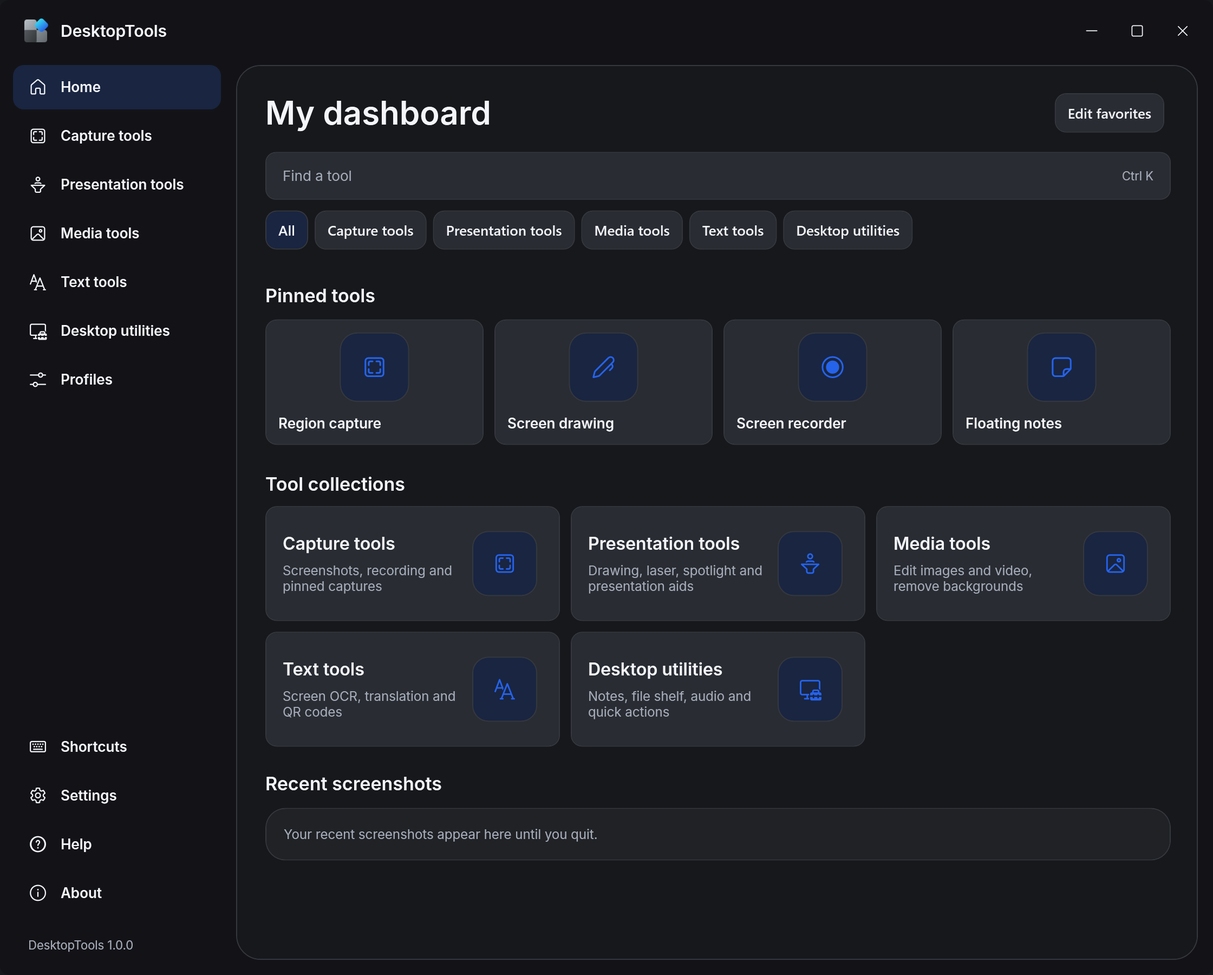
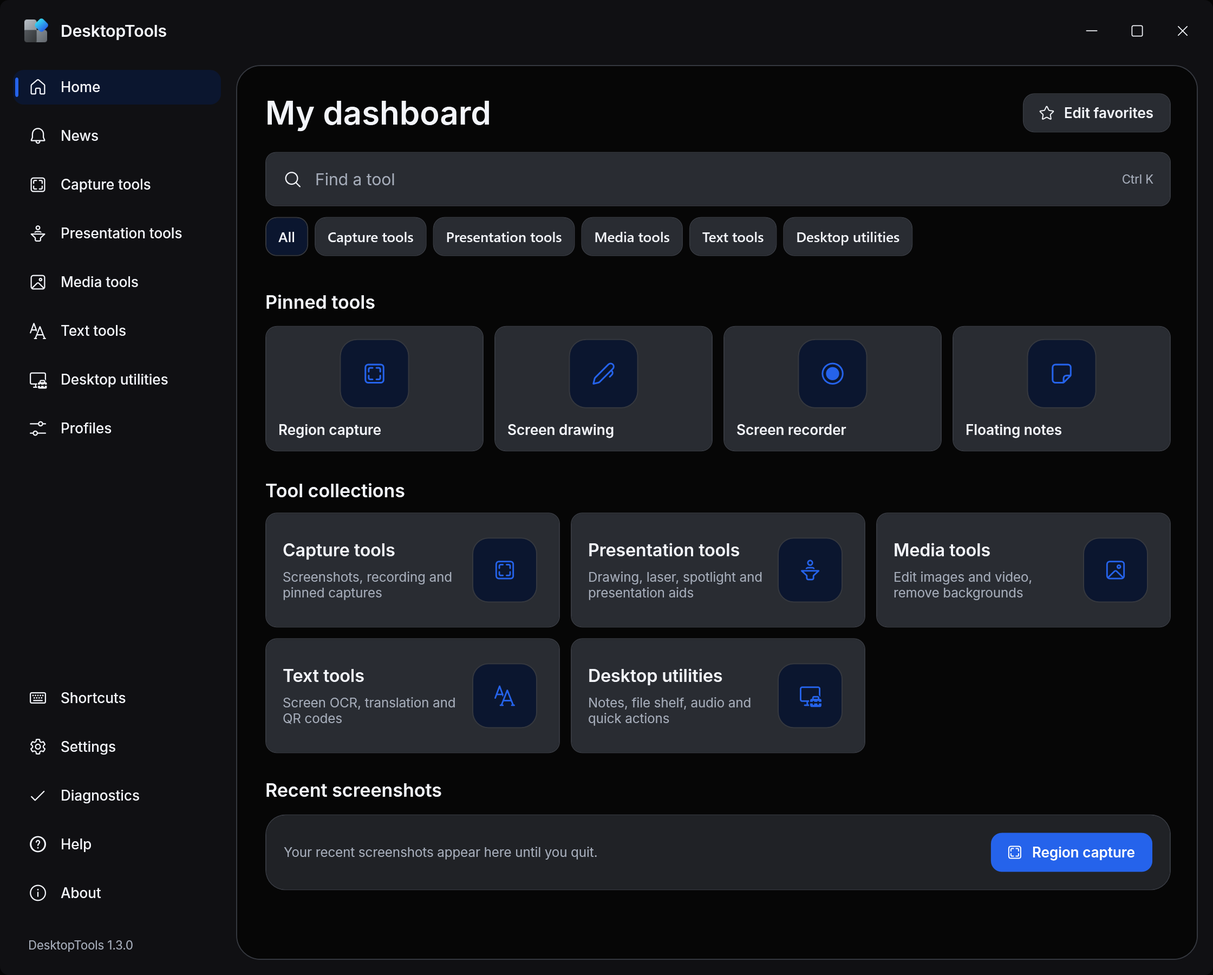
Refresh README text, screenshots and animated hero for the new interface
The READMEs describe Extract text, Clipboard and folder, still-screen recording and the twelve interface languages. The three screenshots and the hero are rendered from the gallery harness; the hero has its own script.

diff --git a/scripts/make-readme-hero.py b/scripts/make-readme-hero.py
@@ -1,0 +1,188 @@
+"""Build the animated README hero (assets/readme/hero.gif) from the published gallery screenshots.
+
+Every picture in it is a render of the real app from docs/screenshots/gallery (run the integration harness with --github-gallery
+first) or is drawn here; no desktop content is captured. Needs Pillow, numpy and ffmpeg on PATH.
+
+Usage: python scripts/make-readme-hero.py [--frames-only DIR]
+"""
+import math, shutil, subprocess, sys, tempfile
+from pathlib import Path
+from PIL import Image, ImageDraw, ImageFilter, ImageFont
+
+ROOT = Path(__file__).resolve().parents[1]
+GALLERY = ROOT / "docs/screenshots/gallery"
+FONTS = ROOT / "src/DesktopTools/Assets/Fonts"
+OUT = ROOT / "assets/readme/hero.gif"
+W, H, S = 800, 400, 2                 # output size and supersampling factor
+FPS, SECONDS = 15, 10.0
+ACCENT = (37, 99, 235)
+
+def font(weight, size): return ImageFont.truetype(str(FONTS / f"Inter-{weight}.otf"), int(size * S))
+def ease(t): t = min(1.0, max(0.0, t)); return 1 - (1 - t) ** 3                      # ease-out cubic
+def smooth(t): t = min(1.0, max(0.0, t)); return t * t * (3 - 2 * t)                  # ease-in-out
+def span(t, start, end): return (t - start) / (end - start)
+def lerp(a, b, t): return a + (b - a) * t
+
+def rounded(image, radius):
+    mask = Image.new("L", image.size, 0)
+    ImageDraw.Draw(mask).rounded_rectangle((0, 0, image.width - 1, image.height - 1), radius=radius, fill=255)
+    out = image.convert("RGBA"); out.putalpha(mask); return out
+
+def backdrop():
+    """Dark canvas with two soft colour glows, drawn once."""
+    base = Image.new("RGB", (W * S, H * S), (13, 15, 22))
+    glow = Image.new("RGB", base.size, (13, 15, 22)); draw = ImageDraw.Draw(glow)
+    draw.ellipse((-200 * S, -260 * S, 420 * S, 260 * S), fill=(24, 44, 110))
+    draw.ellipse((520 * S, 180 * S, 1000 * S, 640 * S), fill=(58, 30, 104))
+    return Image.blend(base, glow.filter(ImageFilter.GaussianBlur(120 * S)), 0.9).convert("RGBA")
+
+def shot(name, width):
+    """A gallery screenshot scaled to `width` output pixels, with rounded corners."""
+    with Image.open(GALLERY / f"{name}.png") as source:
+        image = source.convert("RGB")
+    height = round(image.height * width * S / image.width)
+    return rounded(image.resize((width * S, height), Image.Resampling.LANCZOS), 12 * S)
+
+def shadowed(image, blur=22, alpha=150):
+    pad = blur * 3 * S
+    canvas = Image.new("RGBA", (image.width + pad * 2, image.height + pad * 2), (0, 0, 0, 0))
+    shadow = Image.new("RGBA", image.size, (0, 0, 0, alpha)); shadow.putalpha(image.getchannel("A").point(lambda v: v * alpha // 255))
+    canvas.alpha_composite(shadow, (pad, pad + 10 * S))
+    canvas = canvas.filter(ImageFilter.GaussianBlur(blur * S / 2))
+    canvas.alpha_composite(image, (pad, pad)); return canvas, pad
+
+def place(frame, layer, x, y, opacity=1.0, scale=1.0):
+    """Composite `layer` with its top-left at output coordinates (x, y)."""
+    if opacity <= 0: return
+    if scale != 1.0:
+        layer = layer.resize((max(1, round(layer.width * scale)), max(1, round(layer.height * scale))), Image.Resampling.BILINEAR)
+    if opacity < 1: layer = layer.copy(); layer.putalpha(layer.getchannel("A").point(lambda v: int(v * opacity)))
+    frame.alpha_composite(layer, (round(x * S), round(y * S)))
+
+def pill(text, dot=ACCENT):
+    """Caption chip with a coloured dot."""
+    face = font("SemiBold", 15); width = round(face.getlength(text)) + 52 * S; height = 34 * S
+    image = Image.new("RGBA", (width, height), (0, 0, 0, 0)); draw = ImageDraw.Draw(image)
+    draw.rounded_rectangle((0, 0, width - 1, height - 1), radius=height // 2, fill=(22, 24, 32, 238), outline=(255, 255, 255, 46), width=S)
+    draw.ellipse((14 * S, 12 * S, 24 * S, 22 * S), fill=dot + (255,))
+    draw.text((34 * S, height // 2), text, font=face, fill=(244, 246, 250, 255), anchor="lm"); return image
+
+class Hero:
+    def __init__(self):
+        self.back = backdrop()
+        self.home, self.home_pad = shadowed(shot("01-home-dark", 470))
+        self.editor, self.editor_pad = shadowed(shot("05-screenshot-editor-dark", 640))
+        self.recorder, self.recorder_pad = shadowed(shot("09-screen-recorder-dark", 520))
+        self.settings, self.settings_pad = shadowed(shot("21-appearance-dark", 520))
+        with Image.open(ROOT / "src/DesktopTools/Assets/Icons/AppIcon.png") as icon:
+            self.icon = icon.convert("RGBA").resize((56 * S, 56 * S), Image.Resampling.LANCZOS)
+        # The picture that gets "captured" in the selection scene is the demo slide shown in the recorder's preview.
+        with Image.open(GALLERY / "09-screen-recorder-dark.png") as source:
+            crop = source.convert("RGB").crop((62, 474, 1354, 1200))
+        self.slide = rounded(crop.resize((560 * S, round(crop.height * 560 * S / crop.width)), Image.Resampling.LANCZOS), 10 * S)
+        self.captions = [pill("Capture a region, pixel-exact", (90, 200, 250)), pill("Annotate, extract text, hide private data", ACCENT),
+                         pill("Record the screen without freezes", (239, 68, 68)), pill("Icons, motion and 12 languages", (168, 85, 247))]
+        self.title, self.tag = font("Bold", 46), font("Medium", 17)
+
+    def caption(self, frame, index, t, start, end):
+        appear, leave = ease(span(t, start, start + .45)), smooth(span(t, end - .35, end))
+        place(frame, self.captions[index], 32, 348 + (1 - appear) * 14, opacity=appear * (1 - leave))
+
+    def render(self, t):
+        frame = self.back.copy(); draw = ImageDraw.Draw(frame)
+        # 0.0-2.4  title with the home window rising behind it
+        if t < 2.8:
+            leave = smooth(span(t, 2.3, 2.8)); enter = ease(span(t, .1, 1.0))
+            place(frame, self.home, 318 - self.home_pad / S, 26 + (1 - enter) * 70 - leave * 30 - self.home_pad / S, opacity=enter * (1 - leave))
+            text = ease(span(t, 0, .7)) * (1 - leave)
+            if text > 0:
+                layer = Image.new("RGBA", frame.size, (0, 0, 0, 0)); pen = ImageDraw.Draw(layer)
+                layer.alpha_composite(self.icon, (36 * S, 112 * S))
+                pen.text((36 * S, 190 * S), "DesktopTools", font=self.title, fill=(255, 255, 255, 255))
+                pen.text((38 * S, 252 * S), "Capture, annotate, record", font=self.tag, fill=(176, 186, 204, 255))
+                pen.text((38 * S, 276 * S), "and present on Windows 11", font=self.tag, fill=(176, 186, 204, 255))
+                place(frame, layer, -(1 - ease(span(t, 0, .7))) * 18, 0, opacity=text)
+        # 2.6-5.0  region selection over a still frame, with size badge and loupe
+        if 2.5 <= t < 5.1:
+            enter, leave = ease(span(t, 2.5, 3.0)), smooth(span(t, 4.7, 5.1))
+            ox, oy = 120, 44
+            place(frame, self.slide, ox, oy + (1 - enter) * 20, opacity=enter * (1 - leave))
+            if enter > .98:
+                grow = smooth(span(t, 3.05, 4.15))
+                x0, y0 = ox + 24, oy + 96; x1, y1 = lerp(x0 + 20, ox + 222, grow), lerp(y0 + 12, oy + 196, grow)
+                dim = Image.new("RGBA", frame.size, (0, 0, 0, 0)); pen = ImageDraw.Draw(dim)
+                pen.rounded_rectangle((ox * S, oy * S, (ox + 560) * S, oy * S + self.slide.height), radius=10 * S, fill=(0, 0, 0, round(120 * (1 - leave))))
+                pen.rectangle((x0 * S, y0 * S, x1 * S, y1 * S), fill=(0, 0, 0, 0))
+                frame.alpha_composite(dim); alpha = round(255 * (1 - leave))
+                draw.rectangle((x0 * S, y0 * S, x1 * S, y1 * S), outline=(255, 255, 255, alpha), width=S + 1)
+                for cx, cy, dx, dy in ((x0, y0, 1, 1), (x1, y0, -1, 1), (x0, y1, 1, -1), (x1, y1, -1, -1)):
+                    draw.line((cx * S, cy * S, (cx + dx * 12) * S, cy * S), fill=(255, 255, 255, alpha), width=3 * S)
+                    draw.line((cx * S, cy * S, cx * S, (cy + dy * 12) * S), fill=(255, 255, 255, alpha), width=3 * S)
+                label = f"{round((x1 - x0) * 2.31)} × {round((y1 - y0) * 2.31)}"; face = font("SemiBold", 11)
+                bw = round(face.getlength(label)) + 16 * S; bx = round((x0 + x1) / 2 * S - bw / 2); by = round((y0 - 30) * S)
+                draw.rounded_rectangle((bx, by, bx + bw, by + 22 * S), radius=6 * S, fill=(22, 23, 27, round(232 * (1 - leave))))
+                draw.text((bx + bw // 2, by + 11 * S), label, font=face, fill=(255, 255, 255, alpha), anchor="mm")
+                # loupe: an enlarged, hard-edged copy of the pixels at the moving corner
+                lx, ly, side = x1 + 20, y1 + 18, 84
+                sx, sy = round((x1 - ox) * S), round((y1 - oy) * S)
+                patch = self.slide.crop((sx - 9, sy - 9, sx + 9, sy + 9)).resize((side * S, side * S), Image.Resampling.NEAREST)
+                loupe = Image.new("RGBA", (side * S, (side + 20) * S), (22, 23, 27, 236)); loupe.paste(patch.convert("RGB"), (0, 0))
+                pen = ImageDraw.Draw(loupe); mid = side * S // 2
+                pen.rectangle((mid - 5 * S, mid - 5 * S, mid + 5 * S, mid + 5 * S), outline=(255, 255, 255, 255), width=S)
+                pen.text((mid, (side + 10) * S), f"{round((x1 - ox) * 2.31)}, {round((y1 - oy) * 2.31)}", font=font("SemiBold", 10), fill=(255, 255, 255, 255), anchor="mm")
+                place(frame, rounded(loupe, 9 * S), lx, ly, opacity=(1 - leave) * ease(span(t, 3.3, 3.6)))
+                # pointer
+                px, py = x1 * S, y1 * S
+                draw.polygon(((px, py), (px, py + 17 * S), (px + 5 * S, py + 13 * S), (px + 11 * S, py + 12 * S)), fill=(255, 255, 255, alpha), outline=(0, 0, 0, alpha))
+            self.caption(frame, 0, t, 2.8, 5.0)
+        # 4.9-7.2  the editor
+        if 4.85 <= t < 7.3:
+            enter, leave = ease(span(t, 4.85, 5.5)), smooth(span(t, 6.9, 7.3))
+            zoom = lerp(.94, 1.0, enter)   # then it holds still: unchanged frames cost almost nothing in a GIF
+            width = self.editor.width * zoom / S
+            place(frame, self.editor, (W - width) / 2, 18 + (1 - enter) * 26 - leave * 20 - self.editor_pad / S * zoom + self.editor_pad / S * 0, opacity=enter * (1 - leave), scale=zoom)
+            self.caption(frame, 1, t, 5.2, 7.2)
+        # 7.1-8.6  the recorder with a pulsing REC capsule
+        if 7.1 <= t < 8.75:
+            enter, leave = ease(span(t, 7.1, 7.65)), smooth(span(t, 8.35, 8.75))
+            place(frame, self.recorder, 60 - self.recorder_pad / S + (1 - enter) * -30, 12 - self.recorder_pad / S, opacity=enter * (1 - leave))
+            capsule = Image.new("RGBA", (190 * S, 44 * S), (0, 0, 0, 0)); pen = ImageDraw.Draw(capsule)
+            pen.rounded_rectangle((0, 0, 190 * S - 1, 44 * S - 1), radius=22 * S, fill=(22, 24, 32, 240), outline=(255, 255, 255, 50), width=S)
+            pulse = .55 + .45 * math.sin((t - 7.1) * 2 * math.pi * 1.4)
+            pen.ellipse((16 * S, 15 * S, 30 * S, 29 * S), fill=(239, 68, 68, round(255 * (.45 + .55 * pulse))))
+            seconds = int((t - 7.1) * 3) + 12
+            pen.text((42 * S, 22 * S), f"00:{seconds:02d}", font=font("Bold", 17), fill=(255, 255, 255, 255), anchor="lm")
+            pen.rounded_rectangle((150 * S, 12 * S, 170 * S, 32 * S), radius=4 * S, fill=(222, 53, 65, 255))
+            place(frame, capsule, 560, 300 + (1 - enter) * 18, opacity=enter * (1 - leave))
+            self.caption(frame, 2, t, 7.35, 8.65)
+        # 8.6-10  settings with icons, fading back to the opening frame for a clean loop
+        if t >= 8.55:
+            enter, leave = ease(span(t, 8.55, 9.05)), smooth(span(t, 9.6, 10.0))
+            place(frame, self.settings, 220 - self.settings_pad / S + (1 - enter) * 30, 14 - self.settings_pad / S, opacity=enter * (1 - leave))
+            self.caption(frame, 3, t, 8.75, 9.9)
+        return frame
+
+def main():
+    hero = Hero(); count = round(FPS * SECONDS)
+    frames_only = sys.argv[sys.argv.index("--frames-only") + 1] if "--frames-only" in sys.argv else None
+    work = Path(frames_only) if frames_only else Path(tempfile.mkdtemp(prefix="desktoptools-hero-"))
+    work.mkdir(parents=True, exist_ok=True)
+    corner = Image.new("L", (W, H), 0); ImageDraw.Draw(corner).rounded_rectangle((0, 0, W - 1, H - 1), radius=round(W * 0.022), fill=255)
+    try:
+        for index in range(count):
+            frame = hero.render(index / FPS).resize((W, H), Image.Resampling.LANCZOS)
+            frame.putalpha(corner); frame.save(work / f"f{index:04d}.png")
+        if frames_only: print(f"{count} frames in {work}"); return
+        if not shutil.which("ffmpeg"): raise SystemExit("ffmpeg is required to assemble the GIF.")
+        palette = work / "palette.png"
+        subprocess.run(["ffmpeg", "-v", "error", "-y", "-framerate", str(FPS), "-i", str(work / "f%04d.png"),
+                        "-vf", "palettegen=max_colors=160:reserve_transparent=1:stats_mode=diff", str(palette)], check=True)
+        OUT.parent.mkdir(parents=True, exist_ok=True)
+        subprocess.run(["ffmpeg", "-v", "error", "-y", "-framerate", str(FPS), "-i", str(work / "f%04d.png"), "-i", str(palette),
+                        "-lavfi", "paletteuse=dither=none:alpha_threshold=128:diff_mode=rectangle", "-loop", "0", str(OUT)], check=True)
+        with Image.open(OUT) as result:
+            print(f"{OUT.relative_to(ROOT)}: {result.size[0]}x{result.size[1]}, {result.n_frames} frames, {OUT.stat().st_size / 1e6:.1f} MB")
+    finally:
+        if not frames_only: shutil.rmtree(work, ignore_errors=True)
+
+if __name__ == "__main__": main()

diff --git a/scripts/prepare-readme-media.py b/scripts/prepare-readme-media.py
@@ -1,6 +1,10 @@
-"""Create rounded README copies; requires Pillow. Originals are never modified."""
+"""Create rounded README screenshots from the gallery; requires Pillow. Originals are never modified.
+
+Run the integration harness with --github-gallery first so the gallery shows the current interface.
+The animated hero has its own script, scripts/make-readme-hero.py.
+"""
 from pathlib import Path
-from PIL import Image, ImageChops, ImageDraw, ImageSequence
+from PIL import Image, ImageChops, ImageDraw
 
 ROOT = Path(__file__).resolve().parents[1]
 OUT = ROOT / "assets/readme"
@@ -28,22 +32,4 @@ for source, name in (
     with Image.open(ROOT / "docs/screenshots/gallery" / source) as image:
         rounded(image).save(OUT / name, optimize=True)
 
-with Image.open(ROOT / "assets/desktop-tools-hero.gif") as source:
-    frames, durations = [], []
-    for frame in ImageSequence.Iterator(source):
-        durations.append(frame.info.get("duration", 100))
-        rgba = rounded(frame)
-        # GIF has binary transparency. Reserve one palette entry for the corners.
-        indexed = rgba.convert("RGB").quantize(colors=255, dither=Image.Dither.NONE)
-        indexed.paste(255, mask=rgba.getchannel("A").point(lambda value: 255 if value < 128 else 0))
-        indexed.info["transparency"] = 255
-        frames.append(indexed)
-    frames[0].save(OUT / "hero.gif", save_all=True, append_images=frames[1:],
-                   duration=durations, loop=source.info.get("loop", 0),
-                   transparency=255, disposal=1, optimize=True)
-    with Image.open(OUT / "hero.gif") as result:
-        actual = [frame.info.get("duration", 100) for frame in ImageSequence.Iterator(result)]
-        if actual != durations or result.size != source.size:
-            raise RuntimeError("GIF timing or dimensions changed")
-    print(f"Hero: {len(frames)} frames, {sum(durations)} ms; dimensions and timing preserved.")
-print("Created three rounded PNGs and one animated GIF in assets/readme.")
+print("Created three rounded PNGs in assets/readme. The animated hero is built by scripts/make-readme-hero.py.")

diff --git a/README.fr.md b/README.fr.md
@@ -43,13 +43,13 @@ Sécurité : [sommes de contrôle SHA-256](https://github.com/vg2222/DesktopTool
 
 ### ✏ Expliquez avec une capture d’écran
 
-Ajoutez des flèches, des formes et du texte, puis exportez une copie tout en préservant l’original.
+Ajoutez des flèches, des formes et du texte, récupérez le texte de l’image avec **Extraire le texte**, puis exportez une copie tout en préservant l’original. Pas envie de boîtes de dialogue ? Choisissez **Presse-papiers et dossier** : chaque capture est copiée et enregistrée en une seule étape.
 
 ![Éditeur de captures d’écran avec annotations](assets/readme/editor.png)
 
 ### 🎬 Enregistrez exactement la bonne vue
 
-Choisissez un écran, une fenêtre ou une zone, puis réglez le son et la qualité avant d’enregistrer.
+Choisissez un écran, une fenêtre ou une zone, puis réglez le son et la qualité avant d’enregistrer. Un écran immobile s’enregistre sans blocage ni fin tronquée.
 
 ![Enregistreur d’écran avec une source sélectionnée](assets/readme/recorder.png)
 
@@ -86,7 +86,7 @@ La page **Diagnostic** vérifie les composants système, les langues OCR Windows
 
 L’enregistrement d’écran, la traduction hors ligne et la suppression d’arrière-plan nécessitent Microsoft Visual C++ x64 Redistributable. L’enregistrement et le montage vidéo utilisent Windows Media Foundation. Les fréquences d’enregistrement jusqu’à 144 IPS sont des objectifs ; les performances réelles dépendent de la source, de l’encodeur et du matériel. Consultez la page [Compatibilité](docs/compatibility.md) pour connaître les limites de capture et la couverture actuelle des tests. Le programme d’installation vérifie le composant Visual C++ et propose la page de téléchargement de Microsoft si nécessaire.
 
-L’application prend en charge **l’anglais, le russe, l’allemand, le français et l’espagnol**, ainsi que les apparences claire, sombre et système. Les outils de texte proposent [20 langues de traduction hors ligne](docs/offline-languages.md) ; anglais–russe est inclus. Les langues Windows compatibles apparaissent en premier. L’OCR utilise les reconnaisseurs installés dans Windows.
+L’application est disponible en **12 langues** (anglais, russe, allemand, français, espagnol, ukrainien, chinois simplifié, portugais, japonais, polonais, turc et italien), ainsi que les apparences claire, sombre et système. Les outils de texte proposent [20 langues de traduction hors ligne](docs/offline-languages.md) ; anglais–russe est inclus. Les langues Windows compatibles apparaissent en premier. L’OCR utilise les reconnaisseurs installés dans Windows.
 
 <details>
 <summary><strong>🛠 Compiler et contribuer</strong></summary>

diff --git a/README.de.md b/README.de.md
@@ -43,13 +43,13 @@ Hefte deine meistgenutzten Werkzeuge an und finde alle anderen an einem Ort.
 
 ### ✏ Erkläre es mit einem Screenshot
 
-Füge Pfeile, Formen und Text hinzu und exportiere anschließend eine Kopie, während das Original erhalten bleibt.
+Füge Pfeile, Formen und Text hinzu, hole den Text mit **Text extrahieren** aus dem Bild und exportiere anschließend eine Kopie, während das Original erhalten bleibt. Lieber ohne Dialoge? Mit **Zwischenablage und Ordner** wird jeder Screenshot in einem Schritt kopiert und gespeichert.
 
 ![Screenshot-Editor mit Anmerkungen](assets/readme/editor.png)
 
 ### 🎬 Nimm genau den richtigen Ausschnitt auf
 
-Wähle einen Monitor, ein Fenster oder einen Bereich und stelle Ton und Qualität vor der Aufnahme ein.
+Wähle einen Monitor, ein Fenster oder einen Bereich und stelle Ton und Qualität vor der Aufnahme ein. Ein unbewegter Bildschirm wird ohne Hänger und ohne abgeschnittenes Ende aufgenommen.
 
 ![Bildschirmrekorder mit ausgewählter Quelle](assets/readme/recorder.png)
 
@@ -86,7 +86,7 @@ Unter **Diagnose** kannst du Systemkomponenten, Windows-OCR-Sprachen und Konflik
 
 Für Bildschirmaufnahmen, Offline-Übersetzung und Hintergrundentfernung wird Microsoft Visual C++ x64 Redistributable benötigt. Aufnahme und Videoschnitt verwenden Windows Media Foundation. Aufnahmeraten bis 144 FPS sind Zielwerte; die tatsächliche Leistung hängt von Quelle, Encoder und Hardware ab. Unter [Kompatibilität](docs/compatibility.md) findest du Einschränkungen bei der Aufnahme und den aktuellen Testumfang. Das Setup prüft die Visual-C++-Laufzeit und bietet bei Bedarf die Downloadseite von Microsoft an.
 
-Die App unterstützt **Englisch, Russisch, Deutsch, Französisch und Spanisch** sowie helle, dunkle und systemabhängige Darstellung. Text tools bietet [20 Offline-Übersetzungssprachen](docs/offline-languages.md); Englisch–Russisch ist enthalten. Kompatible Windows-Sprachen stehen zuerst. OCR verwendet die in Windows installierten Erkennungsprogramme.
+Die App spricht **12 Sprachen** (Englisch, Russisch, Deutsch, Französisch, Spanisch, Ukrainisch, vereinfachtes Chinesisch, Portugiesisch, Japanisch, Polnisch, Türkisch und Italienisch) und bietet helle, dunkle und systemabhängige Darstellung. Text tools bietet [20 Offline-Übersetzungssprachen](docs/offline-languages.md); Englisch–Russisch ist enthalten. Kompatible Windows-Sprachen stehen zuerst. OCR verwendet die in Windows installierten Erkennungsprogramme.
 
 <details>
 <summary><strong>🛠 Bauen und mitwirken</strong></summary>

diff --git a/README.es.md b/README.es.md
@@ -43,13 +43,13 @@ Fija las que más usas y encuentra el resto en un solo lugar.
 
 ### ✏ Explícalo con una captura de pantalla
 
-Añade flechas, formas y texto; después, exporta una copia sin modificar el original.
+Añade flechas, formas y texto, extrae el texto de la imagen con **Extraer texto** y, después, exporta una copia sin modificar el original. ¿Sin cuadros de diálogo? Elige **Portapapeles y carpeta** y cada captura se copia y se guarda en un solo paso.
 
 ![Editor de capturas de pantalla con anotaciones](assets/readme/editor.png)
 
 ### 🎬 Graba la vista adecuada
 
-Elige un monitor, una ventana o una zona y configura el sonido y la calidad antes de grabar.
+Elige un monitor, una ventana o una zona y configura el sonido y la calidad antes de grabar. Una pantalla quieta se graba sin congelaciones ni final cortado.
 
 ![Grabador de pantalla con una fuente seleccionada](assets/readme/recorder.png)
 
@@ -86,7 +86,7 @@ La página **Atajos** muestra todas las asignaciones de funciones. Las asignacio
 
 La grabación de pantalla, la traducción sin conexión y la eliminación de fondos necesitan Microsoft Visual C++ x64 Redistributable. La grabación y edición de vídeo usan Windows Media Foundation. Las frecuencias de grabación de hasta 144 FPS son objetivos; el rendimiento real depende de la fuente, el codificador y el hardware. Consulta la página de [compatibilidad](docs/compatibility.md) para conocer las limitaciones de captura y la cobertura actual de las pruebas. El instalador comprueba el componente Visual C++ y ofrece la página de descarga de Microsoft si es necesario.
 
-La aplicación admite **inglés, ruso, alemán, francés y español**, además de los modos claro, oscuro y del sistema. Las herramientas de texto ofrecen [20 idiomas de traducción sin conexión](docs/offline-languages.md); inglés–ruso está incluido. Los idiomas compatibles de Windows aparecen primero. El OCR utiliza los reconocedores instalados en Windows.
+La aplicación está disponible en **12 idiomas** (inglés, ruso, alemán, francés, español, ucraniano, chino simplificado, portugués, japonés, polaco, turco e italiano), además de los modos claro, oscuro y del sistema. Las herramientas de texto ofrecen [20 idiomas de traducción sin conexión](docs/offline-languages.md); inglés–ruso está incluido. Los idiomas compatibles de Windows aparecen primero. El OCR utiliza los reconocedores instalados en Windows.
 
 <details>
 <summary><strong>🛠 Compilar y contribuir</strong></summary>

diff --git a/README.md b/README.md
@@ -43,13 +43,13 @@ Pin what you use most and find the rest in one place.
 
 ### ✏ Explain it in a screenshot
 
-Add arrows, shapes and text, then export a copy while preserving your original.
+Add arrows, shapes and text, pull the text out of the picture with **Extract text**, then export a copy while preserving your original. Prefer no dialogs? Choose **Clipboard and folder** and every screenshot is copied and saved in one step.
 
 ![Screenshot editor with annotations](assets/readme/editor.png)
 
 ### 🎬 Record the right view
 
-Choose a monitor, window or region and set the sound and quality before recording.
+Choose a monitor, window or region and set the sound and quality before recording. Still screens record without freezes or a cut-off ending.
 
 ![Screen recorder with a selected source](assets/readme/recorder.png)
 
@@ -87,7 +87,7 @@ Use **Diagnostics** to check native components, Windows OCR languages and shortc
 
 Screen recording, offline translation and image background removal need Microsoft Visual C++ x64 Redistributable; recording also needs Windows Media Foundation. Other image tools and screen OCR remain usable without the Visual C++ runtime. Recording rates up to 144 FPS are targets; actual performance depends on the source, encoder and hardware. See [compatibility](docs/compatibility.md) for capture limitations and current testing coverage. Setup checks the runtime and offers the Microsoft download page when needed.
 
-The app supports **English, Russian, German, French and Spanish**, plus light, dark and system appearance. Text tools offer [20 offline translation languages](docs/offline-languages.md), with English–Russian bundled. Compatible Windows languages appear first; OCR uses the recognizers installed in Windows.
+The app speaks **12 languages** (English, Russian, German, French, Spanish, Ukrainian, Simplified Chinese, Portuguese, Japanese, Polish, Turkish and Italian), plus light, dark and system appearance. Text tools offer [20 offline translation languages](docs/offline-languages.md), with English–Russian bundled. Compatible Windows languages appear first; OCR uses the recognizers installed in Windows.
 
 <details>
 <summary><strong>🛠 Build and contribute</strong></summary>

diff --git a/docs/release-preparation.md b/docs/release-preparation.md
@@ -3,7 +3,7 @@
 ## Source and documentation
 
 - Keep build output, local release bundles, private notes, credentials and test captures out of Git. Ignore rules do not remove already tracked files; inspect the staged inventory before committing.
-- Keep all five READMEs aligned. Each uses the shared rounded hero and three screenshots from `assets/readme`. `scripts/prepare-readme-media.py` regenerates them using Python and Pillow; source media remain unchanged.
+- Keep all five READMEs aligned. Each uses the shared rounded hero and three screenshots from `assets/readme`. Regenerate the gallery with the integration harness (`--github-gallery`), then run `scripts/prepare-readme-media.py` for the three screenshots and `scripts/make-readme-hero.py` for the animated hero (Python with Pillow and numpy, plus ffmpeg); every picture is a render of the app, never a desktop capture.
 - Confirm the project version, `v<version>` tag and `docs/releases/<version>.md` agree. Record compatibility boundaries rather than presenting unperformed hardware checks as passed.
 - After making the repository public, enable private vulnerability reporting in GitHub settings. Review branch protection and Actions permissions before accepting contributions.
 
